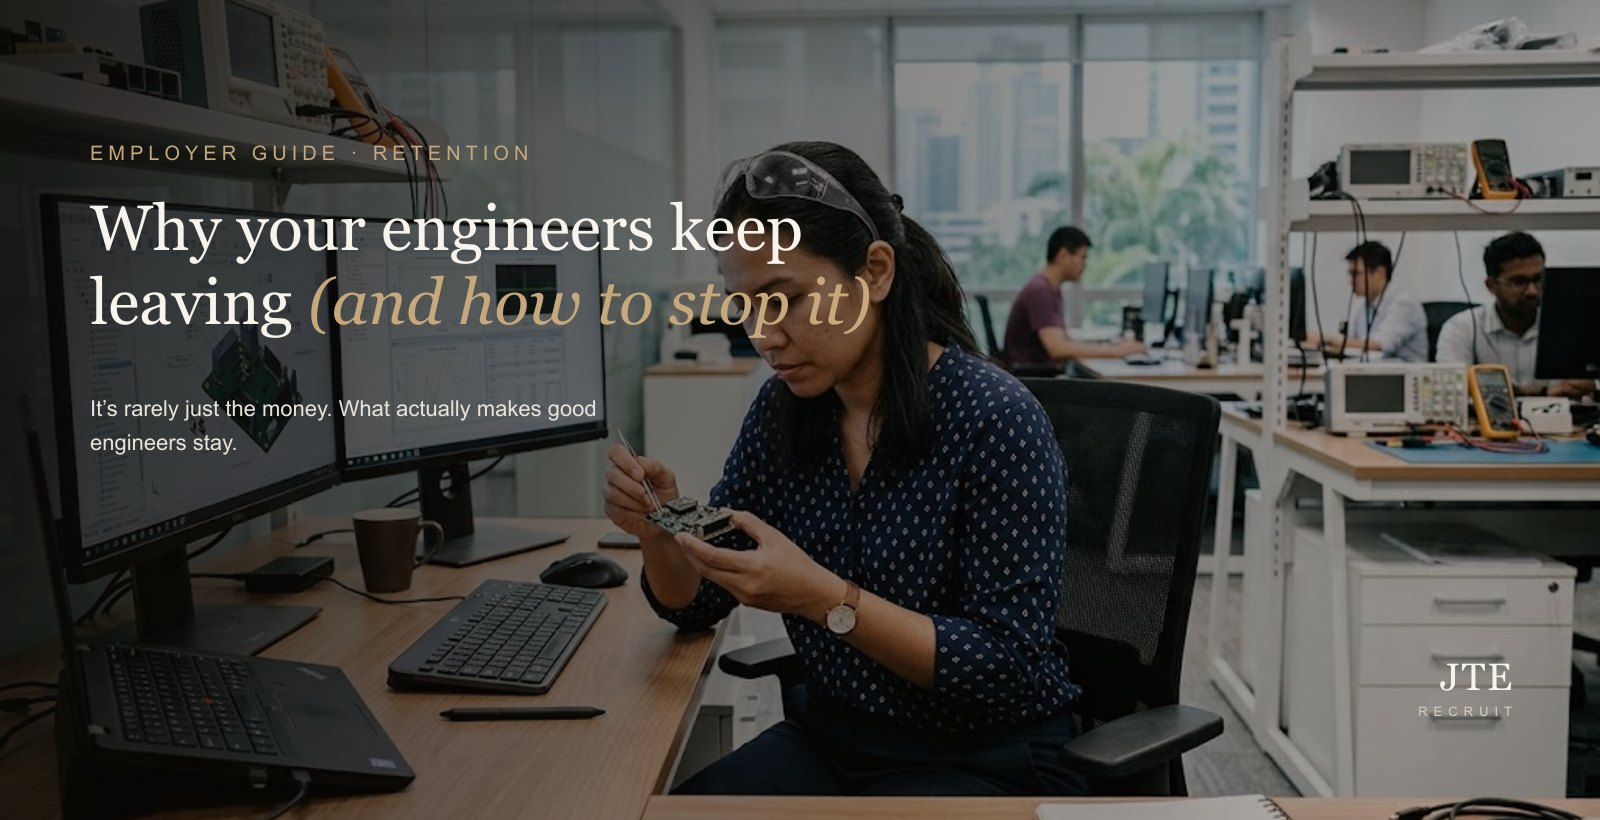
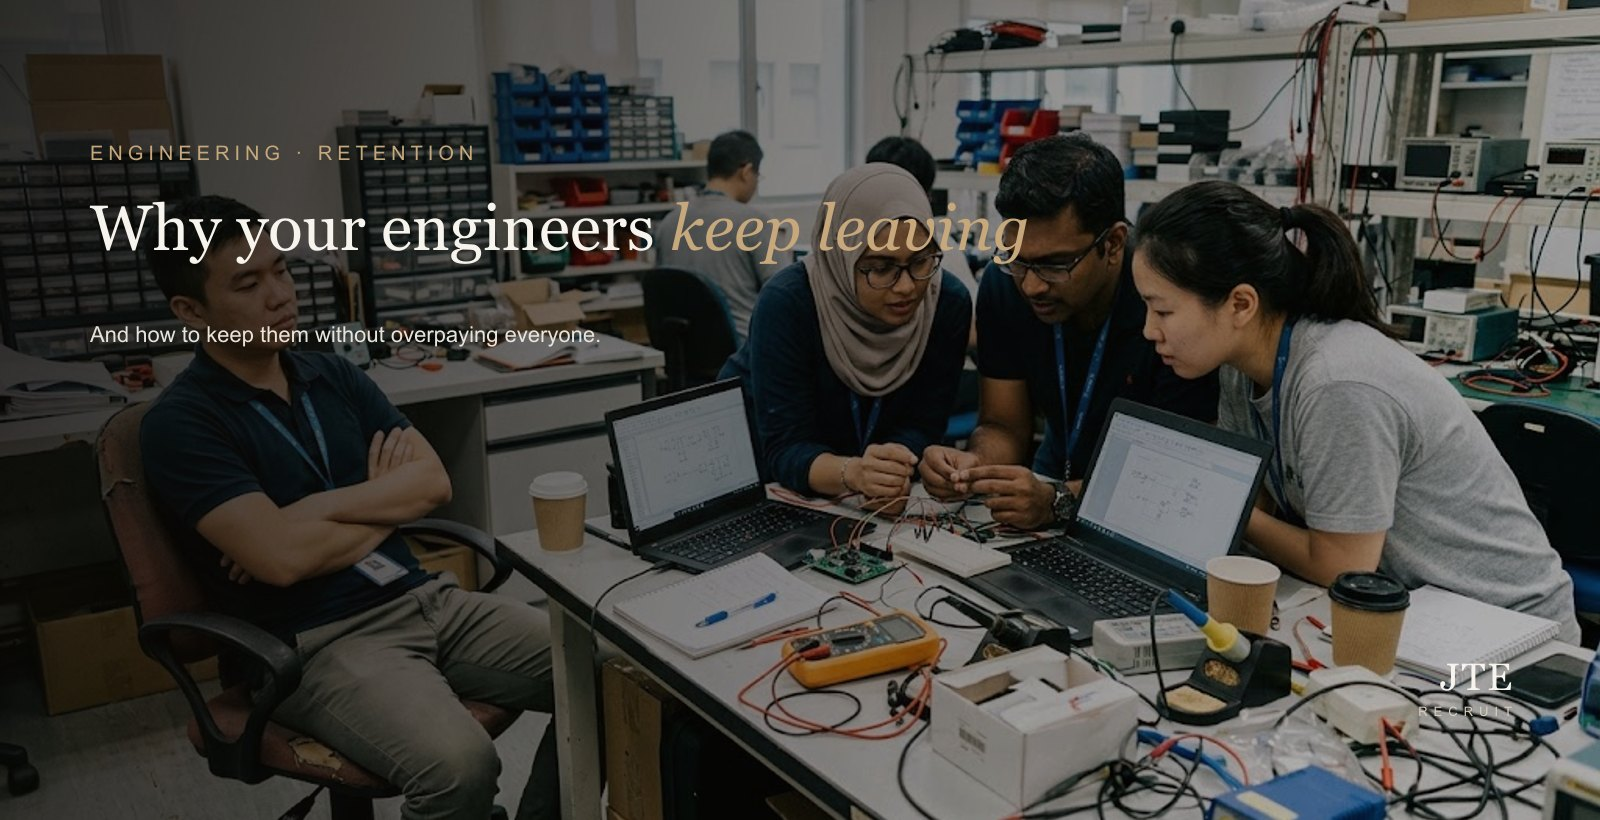
Why engineers leave: real-photo hero (disengaged in team) + pantry-chat retention body photo
Claude-Session: https://claude.ai/code/session_01Q3xYBeyJPAcKPVopMAYY2i

diff --git a/blog/why-your-engineers-leave-singapore/index.html b/blog/why-your-engineers-leave-singapore/index.html
@@ -194,6 +194,12 @@
         <h2>What keeping them costs &mdash; versus replacing them</h2>
         <p>A modest raise, a training budget, a slice of a manager&rsquo;s time: that&rsquo;s the cost of keeping a good engineer. Now weigh it against replacing one &mdash; the hiring cost, months of an empty seat, the ramp-up before the new person is fully useful, and the work that stalls in between. On pure numbers, retention wins almost every time, never mind the hit to morale for everyone left carrying the extra load. If you make just one change after reading this, make it this: do the comparison honestly, on paper, before you decide someone isn&rsquo;t worth keeping.</p>
 
+        
+
+        <figure class="mb-10">
+            <img src="photo-1.jpg" alt="Two colleagues chatting warmly over coffee in an office pantry — the everyday relationship that keeps good engineers around" class="w-full rounded-xl" loading="lazy" width="1600" height="900">
+        </figure>
+
         <h2>How to keep them without overpaying everyone</h2>
         <p>You don&rsquo;t need to spray money across the whole team. Be targeted. Know who your genuinely strong people are and make sure their pay is fair to the market &mdash; fair, not top. Give them something to grow into. Fix the manager problem, or at least carve out space for real one-to-ones. And do <strong>stay interviews</strong> &mdash; sit down with your good people <em>before</em> they resign, ask what would make them stay and what&rsquo;s quietly frustrating them, while you can still act on it. It&rsquo;s the cheapest retention tool there is, and almost nobody bothers to use it. And when someone does hand in that letter, our honest take on <a href="/blog/should-you-counter-offer-engineer-singapore/">whether to counter-offer</a> will save you from an expensive reflex.</p>
 
